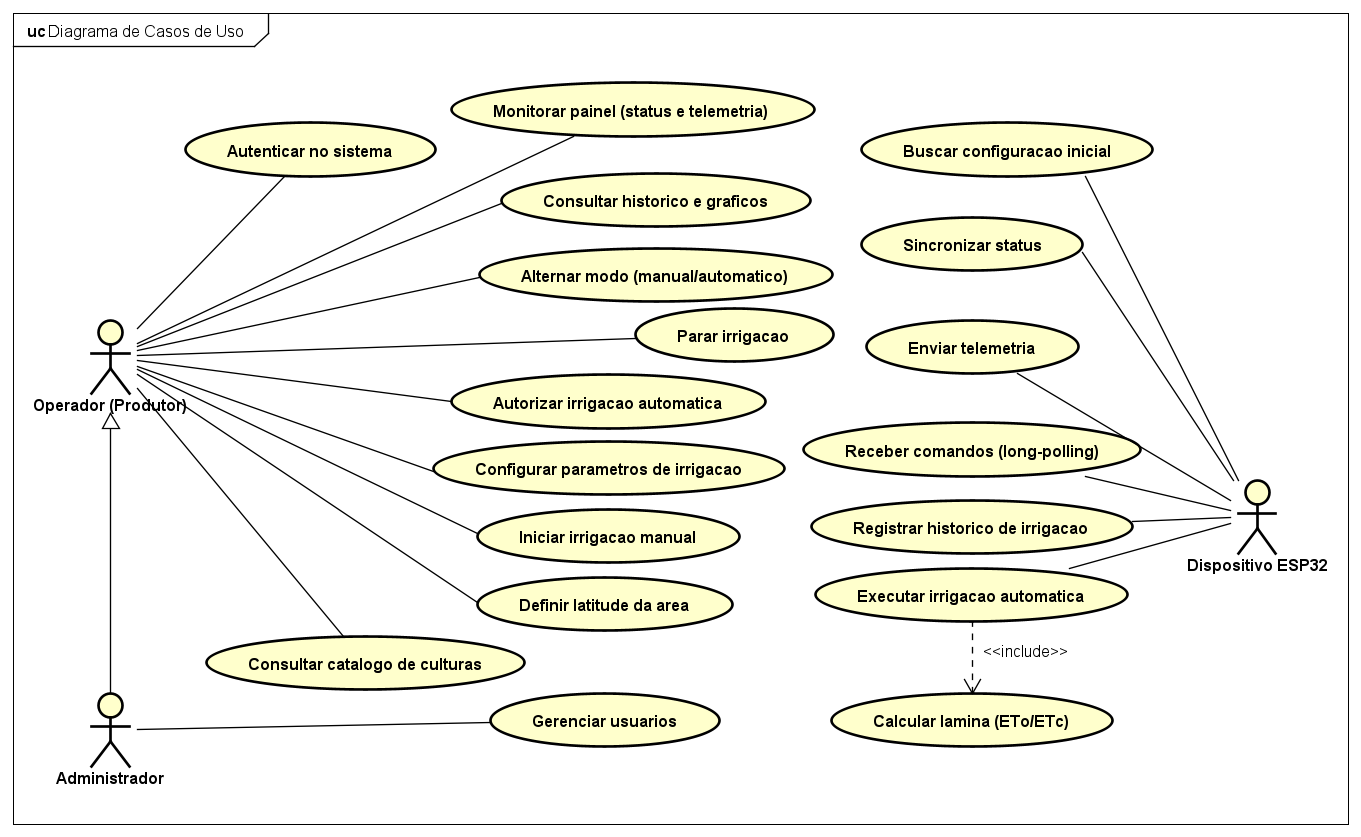
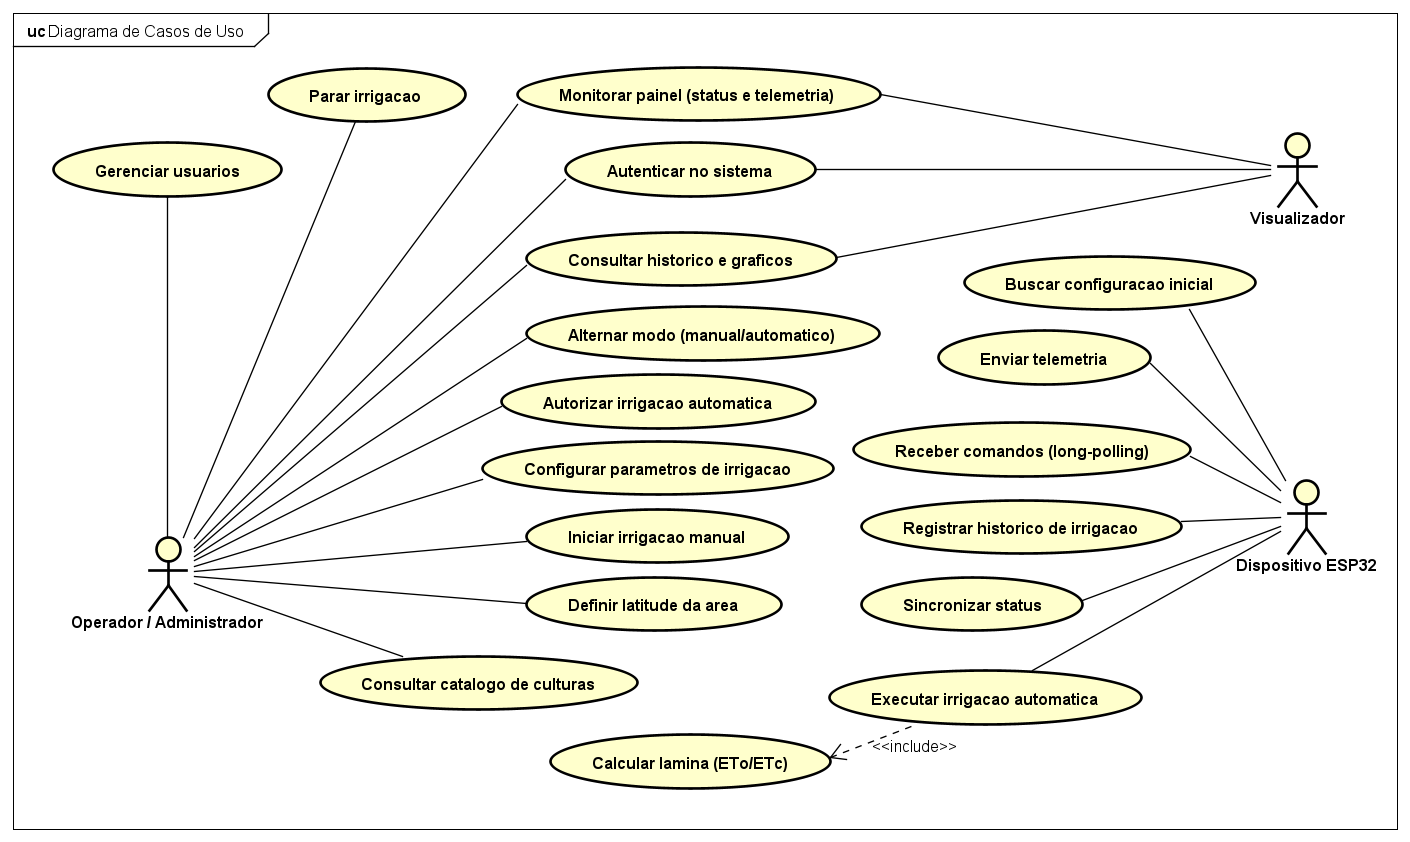
Updates from Overleaf

diff --git a/textuais/cap3.tex b/textuais/cap3.tex
@@ -4,7 +4,7 @@ Este trabalho parte de dois problemas observados nas soluções de irrigação a
  
 Quanto à natureza, trata-se de uma pesquisa aplicada, pois busca gerar conhecimento voltado à solução de um problema prático e específico. Quanto aos objetivos, a pesquisa é exploratória, uma vez que procura proporcionar maior familiaridade com o problema e verificar a viabilidade de uma alternativa para ele. A abordagem é predominantemente qualitativa, centrada na verificação do funcionamento do sistema e no atendimento aos requisitos definidos.
  
-Quanto aos procedimentos, o trabalho iniciou-se com uma pesquisa bibliográfica, que embasou a fundamentação teórica e a análise dos trabalhos relacionados, e prosseguiu com o desenvolvimento de um protótipo funcional, composto por hardware, \textit{firmware}, \textit{backend} e aplicação web. Segundo a classificação de estilos de pesquisa em computação proposta por \citeonline{wazlawick2014}, o trabalho enquadra-se na apresentação de um produto, cujo valor está em demonstrar que a solução atende a um problema relevante. Essa contribuição é complementada pela comparação qualitativa com soluções comerciais e acadêmicas apresentada no Capítulo~\ref{textuais/cap2}.
+Quanto aos procedimentos, o trabalho iniciou-se com uma pesquisa bibliográfica, que embasou a fundamentação teórica e a análise dos trabalhos relacionados, e prosseguiu com o desenvolvimento de um protótipo funcional, composto por hardware, firmware, backend e aplicação web. Segundo a classificação de estilos de pesquisa em computação proposta por \citeonline{wazlawick2014}, o trabalho enquadra-se na apresentação de um produto, cujo valor está em demonstrar que a solução atende a um problema relevante. Essa contribuição é complementada pela comparação qualitativa com soluções comerciais e acadêmicas apresentada no Capítulo~\ref{textuais/cap2}.
  
 Cabe destacar que o foco do estudo está na viabilidade técnica e econômica do sistema, e não na medição de sua eficiência agronômica. Assim, não fazem parte do escopo a quantificação da economia de água ou dos ganhos de produtividade em campo. O que se busca demonstrar é que é possível desenvolver um sistema de irrigação automatizado, modular e de baixo custo utilizando tecnologias de IoT.
 
@@ -42,9 +42,18 @@ O trabalho foi desenvolvido no Laboratório IFMaker do Instituto Federal Goiano 
   \fonte{Elaborado pelo autor}
 \end{figure}
  
-A primeira etapa foi uma revisão bibliográfica, cujo objetivo era delimitar o escopo do projeto e definir um caminho a seguir durante o desenvolvimento. Foram pesquisadas as tecnologias já empregadas na agricultura irrigada, como microcontroladores e plataformas embarcadas, sensores de solo e de clima, protocolos de comunicação para Internet das Coisas e métodos de manejo da irrigação. Também foram analisados projetos acadêmicos e soluções comerciais de irrigação inteligente, que serviram de referência para o que o sistema deveria oferecer e para as limitações que ele poderia superar, sobretudo o custo. O principal sistema embasado foi \textbf{"Low-cost open-source platform for irrigation automation"} desvevolvido por \citeauthor{campos2021lowcost}, no Instituto Federal Goiano - Campus Ceres.
+A primeira etapa foi uma revisão bibliográfica, cujo objetivo era delimitar o escopo do projeto e definir um caminho a seguir durante o desenvolvimento. Foram pesquisadas as tecnologias já empregadas na agricultura irrigada, como microcontroladores e plataformas embarcadas, sensores de solo e de clima, protocolos de comunicação para Internet das Coisas e métodos de manejo da irrigação. Também foram analisados projetos acadêmicos e soluções comerciais de irrigação inteligente, que serviram de referência para o que o sistema deveria oferecer e para as limitações que ele poderia superar, sobretudo o custo. O principal sistema embasado foi "Low-cost open-source platform for irrigation automation" desvevolvido por \citeauthor{campos2021lowcost}, no Instituto Federal Goiano - Campus Ceres.
 
-Na segunda etapa foram levantados e analisados os requisitos do sistema. Do lado do hardware, definiram-se os sensores, os atuadores e a unidade de processamento: o sensor DHT11, para temperatura e umidade relativa do ar; um sensor de umidade do solo; um módulo relé para acionar a válvula solenoide; e um display LCD para exibir as informações no local de instalação. Do lado do escopo, adotou-se o gotejamento como método de irrigação, por aplicar a água de forma localizada. Para o cálculo da lâmina, escolheu-se a abordagem Kc--ETo da FAO-56 \cite{allen1998}, com a evapotranspiração de referência estimada pelo método de Hargreaves-Samani \cite{hargreaves1985reference}, que exige apenas temperatura e latitude e, por isso, é compatível com sensores de baixo custo. Os coeficientes de cultura foram obtidos do Comunicado Técnico 254 da Embrapa \cite{albuquerque2021planilha}. Também nessa etapa foram definidos a forma de comunicação entre o dispositivo e a interface e o armazenamento dos dados em nuvem com o Firebase. Os requisitos detalhados estão no Capitulo~\ref{textuais/cap5}. 
+Na segunda etapa foram levantados e analisados os requisitos do sistema. Do lado do hardware, definiram-se os sensores, os atuadores e a unidade de processamento: 
+
+\begin{itemize} 
+    \item Sensor DHT11, para temperatura e umidade relativa do ar; 
+    \item Sensor de umidade do solo;
+    \item Módulo relé para acionar a válvula solenoide; 
+    \item Display LCD para exibir as informações no local de instalação. 
+\end{itemize}
+
+Do lado do escopo, adotou-se o gotejamento como método de irrigação, por aplicar a água de forma localizada. Para o cálculo da lâmina, escolheu-se a abordagem Kc--ETo da FAO-56 \cite{allen1998}, com a evapotranspiração de referência estimada pelo método de Hargreaves-Samani \cite{hargreaves1985reference}, que exige apenas temperatura e latitude e, por isso, é compatível com sensores de baixo custo. Os coeficientes de cultura foram obtidos do Comunicado Técnico 254 da Embrapa \cite{albuquerque2021planilha}. Também nessa etapa foram definidos a forma de comunicação entre o dispositivo e a interface e o armazenamento dos dados em nuvem com o Firebase. Os requisitos detalhados estão no Capítulo~\ref{textuais/cap4}. 
  
 A terceira etapa foi a montagem do primeiro protótipo de hardware e software. O Raspberry Pi 4 Model B \cite{raspberrypi4} atuava como unidade central, com firmware desenvolvido em Python. Como o Raspberry Pi não tem entradas analógicas, o sensor de umidade do solo foi lido por meio do conversor analógico-digital ADS1115. A comunicação entre o dispositivo e a interface usava o protocolo MQTT \cite{mqtt5}, com o broker hospedado no próprio Raspberry Pi, e a interface foi construída no Node-RED, com um painel para visualizar as leituras, informar os parâmetros de cálculo e acompanhar o histórico de irrigações nos modos manual e automático. Os testes com esse protótipo confirmaram o Firebase (Cloud Firestore) como solução de armazenamento, escolha mantida até a versão atual.
  
@@ -54,9 +63,11 @@ Na quinta etapa, o sistema completo, formado pelo dispositivo ESP32, pela API, p
  
 \section{Materiais e ferramentas}
  
-A Tabela~\ref{tab:ferramentas} reúne os materiais e as ferramentas usados na versão atual do sistema, com a versão de cada um e a finalidade no projeto. Eles estão organizados em seis categorias, que acompanham as partes do sistema. A categoria \textit{hardware} reúne os componentes físicos do protótipo, como o ESP32, os sensores e os atuadores, que aparecem de forma resumida e são detalhados posteriormente Capitulo~\ref{textuais/cap4}. A categoria \textit{firmware} contém o ambiente e as bibliotecas usados para programar o ESP32. As categorias \textit{backend} e \textit{frontend} agrupam, respectivamente, as tecnologias da API, responsável por receber os dados do dispositivo e os comandos do painel, e as da aplicação web, por meio da qual o usuário acompanha e controla a irrigação. A categoria de nuvem e banco de dados reúne os serviços do Firebase, usados para autenticação e armazenamento. Por fim, a categoria de desenvolvimento e testes reúne as ferramentas de apoio, como o controle de versão e as bibliotecas de testes automatizados.
+A Tabela~\ref{tab:ferramentas} reúne os materiais e as ferramentas usados na versão atual do sistema, com a versão de cada um e a finalidade no projeto. Eles estão organizados em seis divisões. A primeira, hardware, apresenta de forma resumida os componentes eletrônicos do dispositivo de campo, que são detalhados no Capítulo~\ref{textuais/cap5}. A segunda reúne as linguagens de programação, uma para cada parte do sistema: C++ no firmware do ESP32, Java na API e TypeScript no painel web. A terceira lista os frameworks e as bibliotecas construídos sobre essas linguagens, como o Spring Boot, base da API, e o Angular, base do painel, além das bibliotecas de estilização e de gráficos da interface.
 
-As ferramentas usadas apenas no primeiro protótipo (Python, o \textit{broker} MQTT Mosquitto, o Node-RED e as bibliotecas de leitura dos sensores no Raspberry Pi) não constam na tabela, porque foram descontinuadas na migração para o ESP32.
+A quarta divisão agrupa os serviços em nuvem do Firebase, responsáveis pela autenticação dos usuários e pelo armazenamento dos dados, junto com os kits de desenvolvimento que permitem à API e ao painel acessá-los. A quinta reúne as ferramentas de apoio ao desenvolvimento, que não fazem parte do sistema em execução, mas foram usadas para escrevê-lo, versioná-lo, compilá-lo, documentá-lo e empacotá-lo. Por fim, a sexta divisão contém as bibliotecas usadas nos testes automatizados da API. Os itens sem versão indicada correspondem a serviços em nuvem, cuja versão é mantida pelo fornecedor, ou a ferramentas cuja versão não interfere no funcionamento do sistema.
+
+As ferramentas usadas apenas no primeiro protótipo (Python, o broker MQTT Mosquitto, o Node-RED e as bibliotecas de leitura dos sensores no Raspberry Pi) não constam na tabela, porque foram descontinuadas na migração para o ESP32.
  
 \begin{table}[htbp]
   \centering
@@ -107,7 +118,7 @@ As ferramentas usadas apenas no primeiro protótipo (Python, o \textit{broker} M
 
 \section{Procedimentos de avaliação}
 
-A avaliação do sistema foi planejada em três níveis, do componente isolado ao ecossistema completo, todos executados em ambiente controlado. Os resultados são apresentados no Capítulo~\ref{textuais/cap7}.
+A avaliação do sistema foi planejada em três níveis, do componente isolado ao ecossistema completo, todos executados em ambiente controlado. Os resultados são apresentados no Capítulo~\ref{textuais/cap6}.
  
 No primeiro nível, os testes unitários verificam o código de cada aplicação separadamente. No backend, as classes de serviço e os controladores são testados com JUnit, e o Mockito substitui as dependências externas, como o Firestore, para que cada teste avalie apenas a lógica da classe. O critério de aceitação é que todos os testes passem.
  

diff --git a/textuais/cap4.tex b/textuais/cap4.tex
@@ -1,14 +1,12 @@
-% #####################################################################
 \chapter{Levantamento e análise de requisitos}
 \label{textuais/cap4}
 
 Este capítulo define o que o sistema deve fazer e sob quais condições. A partir da descrição do problema e da delimitação do escopo, são apresentados os perfis de usuário, os requisitos funcionais e não funcionais, as regras de negócio que orientam as decisões do sistema e, por fim, os diagramas que modelam seu comportamento.
 
-% =====================================================================
 \section{Descrição do problema e escopo}
 \label{sec:problema-escopo}
 
-A irrigação feita sem controle, por tempo fixo ou pela percepção do produtor, tende a aplicar mais ou menos água do que a cultura necessita, o que gera desperdício ou estresse hídrico. As soluções comerciais que automatizam essa decisão, como as analisadas no Capítulo~\ref{textuais/cap2}, oferecem modelos de decisão elaborados, mas são proprietárias, têm custo elevado e, em geral, são voltadas a escalas diferentes da de pequenas áreas de cultivo.
+A irrigação feita sem controle, por tempo fixo ou pela percepção do produtor, tende a aplicar mais ou menos água do que a cultura necessita, o que gera desperdício ou estresse hídrico. As soluções comerciais que automatizam essa decisão, como as analisadas no Capítulo~\ref{textuais/cap2}, oferecem modelos de decisão elaborados, mas são proprietárias, têm custo elevado e, em geral, são voltadas a escalas diferentes daquelas observadas em pequenas áreas de cultivo.
 
 Para enfrentar esse problema, o sistema proposto monitora a umidade do solo, a temperatura e a umidade do ar, decide quando irrigar com base na umidade do solo e calcula quanto irrigar pelo método FAO-56, escrito por \citeonline{allen1998}, com a ET$_0$ estimada pelo método de Hargreaves-Samani. O acompanhamento e o controle são feitos a distância, por meio de um painel \textit{web}.
 
@@ -20,15 +18,22 @@ O escopo do trabalho compreende:
   \item Um painel \textit{web} para monitoramento, configuração e acionamento da irrigação, com controle de acesso por perfil de usuário.
 \end{itemize}
 
-Ficam fora do escopo: o controle simultâneo de vários dispositivos, embora o modelo de dados já identifique cada um deles; a fertirrigação; o uso de previsão do tempo; o desenvolvimento de aplicativo móvel nativo; a medição de vento e radiação solar, necessária ao método de Penman-Monteith; e a avaliação da economia de água e da produtividade em campo, conforme delimitado na caracterização da pesquisa.
+Ficam fora do escopo: 
+\begin{itemize}
+    \item O controle simultâneo de vários dispositivos, embora o modelo de dados já identifique cada um deles; 
+    \item A fertirrigação; o uso de previsão do tempo;
+    \item O desenvolvimento de aplicativo móvel nativo; 
+    \item A medição de vento e radiação solar, necessária ao método de Penman-Monteith; 
+    \item E a avaliação da economia de água e da produtividade em campo,
+\end{itemize}
+Conforme delimitado na caracterização da pesquisa.
 
-% =====================================================================
 \section{Perfis de usuário}
 \label{sec:perfis}
 
 O sistema possui dois perfis de usuário humano e um ator de sistema. O perfil é definido no cadastro do usuário e verificado pela API a cada requisição, de modo que as restrições valem mesmo que alguém tente acessar as funções diretamente, sem passar pelo painel.
 
-O \textbf{Administrador/Operador} tem acesso completo. Além de acompanhar o sistema, ele altera o modo de operação, autoriza ou bloqueia a irrigação automática, inicia e interrompe a irrigação manual, configura os parâmetros agronômicos e a latitude, cadastra culturas e cadastra novos usuários.
+O Administrador/Operador tem acesso completo. Além de acompanhar o sistema, ele altera o modo de operação, autoriza ou bloqueia a irrigação automática, inicia e interrompe a irrigação manual, configura os parâmetros agronômicos e a latitude, cadastra culturas e cadastra novos usuários.
 
 O \textbf{Visualizador} tem acesso apenas de leitura. Ele acompanha o estado do dispositivo, as leituras dos sensores, os gráficos e o histórico de irrigações, mas não altera configurações nem envia comandos.
 
@@ -60,7 +65,6 @@ O \textbf{Dispositivo ESP32} é um ator de sistema, não humano. Ele envia as le
   \fonte{Elaborado pelo autor}
 \end{table}
 
-% =====================================================================
 \section{Requisitos funcionais}
 \label{sec:rf}
 
@@ -168,6 +172,7 @@ Os \sigla{RNF}{requisitos não funcionais} definem como o sistema deve operar, e
   \endhead
   \hline
   \multicolumn{3}{r}{\textit{Continua na próxima página}} \\
+  
   \endfoot
   \hline
   \endlastfoot
@@ -188,6 +193,7 @@ Os \sigla{RNF}{requisitos não funcionais} definem como o sistema deve operar, e
   RNF15 & Compatibilidade & A comunicação entre as partes deve seguir o estilo REST, com dados em JSON, e os registros de data e hora devem usar o fuso de Brasília (UTC$-$3), com relógio sincronizado pelo \sigla{NTP}{\textit{Network Time Protocol}}. \\
   RNF16 & Tecnologia & Os dados devem ser armazenados no Cloud Firestore, e a autenticação de usuários deve ser feita pelo Firebase Authentication. \\
   RNF17 & Escalabilidade & A identificação de cada dispositivo e o modelo de dados devem permitir a futura inclusão de vários dispositivos. \\
+  
 \end{longtable}
 }
 \vspace{-0.8\baselineskip}

diff --git a/textuais/introducao.tex b/textuais/introducao.tex
@@ -55,7 +55,6 @@ Nos dias atuais, o uso eficiente da água é um fator determinante para a susten
 % --- Parágrafo 2: importância da solução tecnológica + estudos ----------
 Nesse contexto, os sistemas de irrigação inteligente, baseados na \sigla{IoT}{Internet of Things ou Internet das Coisas}, tornam-se ferramentas essenciais para o monitoramento e a automação do manejo hídrico. Esses sistemas permitem acompanhar continuamente variáveis do solo e do clima e acionar a irrigação conforme a demanda da cultura, reduzindo também a necessidade de intervenção manual \cite{garcia2020iot}. Estudos recentes demonstram seus benefícios: no cultivo de alface irrigada por gotejamento, um sistema com sensores de baixo custo consumiu 28,8\% menos água e alcançou produtividade da água 52,5\% superior à do manejo convencional \cite{abdelmoneim2025comparative}, e, em campo, estratégias apoiadas por sensores IoT reduziram em 30\% o volume aplicado sem prejuízo à produção \cite{dong2024implementation}.
  
-% --- Parágrafo 3: soluções comerciais existentes -----------------------
 Alguns sistemas comerciais de irrigação inteligente amplamente utilizados no mercado incluem o Hydrawise, o NetBeat e o Valley Scheduling. O Hydrawise, da Hunter Industries \cite{hunter2026hydrawise}, é voltado para jardins e paisagismo e ajusta a programação da irrigação com base na previsão de temperatura, chuva, vento e umidade, disponibilizando parte de suas funcionalidades avançadas mediante planos de assinatura do Software. O NetBeat, da Netafim \cite{netafim2026netbeat}, por sua vez, destaca-se no segmento agrícola pela robustez: com distribuição no Brasil, integra o monitoramento da lavoura, o apoio à decisão por meio de modelos de cultura proprietários e o controle da irrigação e da fertirrigação, técnica que consiste em aplicar fertilizantes dissolvidos na própria água de irrigação. Já o Valley Scheduling \cite{valley2026scheduling} é uma plataforma voltada para sistemas de irrigação por pivô central, que estima a necessidade diária de água por meio de balanço hídrico, sensores de solo e imagens de satélite, contando ainda com o acompanhamento de técnicos especializados. Embora todas essas soluções ofereçam interfaces gráficas para o gerenciamento da irrigação e funcionalidades parecidas com o sistema apresentado nessa pesquisa, tratam-se de ecossistemas fechados: além do custo elevado, oferecem pouca flexibilidade quanto aos sensores e módulos que podem ser integrados, limitação que um sistema desenvolvido com tecnologias de IoT permite contornar.
  
 % --- Parágrafo 4: diferencial da proposta ------------------------------
@@ -69,8 +68,8 @@ O desenvolvimento desse sistema se justifica pela necessidade crescente de torna
  
 % --- Parágrafo 7: objetivo do trabalho --------------------------------
 Diante desse cenário, o objetivo deste trabalho é desenvolver um sistema de irrigação inteligente de baixo custo, baseado em Internet das Coisas, capaz de coletar dados ambientais por meio de sensores, estimar a necessidade hídrica da cultura e automatizar o fornecimento de água, disponibilizando uma interface web para o monitoramento e o gerenciamento da irrigação. O sistema foi desenvolvido e validado em ambiente controlado, com um único setor de irrigação por gotejamento e tendo a alface (\emph{Lactuca sativa}) como cultura de referência. Com isso, busca-se oferecer ao pequeno produtor uma forma de irrigar apenas o volume de água necessário, de maneira estável e rastreável.
- 
-% --- Parágrafo 8: capítulos seguintes ---------------------------------
+
+
 Nos capítulos seguintes, serão apresentados os fundamentos teóricos relacionados à irrigação, à evapotranspiração e à Internet das Coisas, o levantamento e a análise dos requisitos do sistema, a implementação do \emph{hardware}, da API e da interface WEB, e os resultados obtidos nos testes realizados.
 
 A água é um recurso essencial para a vida no planeta, e a agricultura é o setor que mais a demanda, respondendo por aproximadamente 70\% do volume de água doce retirado, enquanto a indústria e o uso doméstico correspondem a cerca de 22\% e 8\%, respectivamente \cite{ingrao2023}. Diante do crescimento populacional e das mudanças climáticas, a expansão da irrigação tem pressionado os recursos hídricos: mais da metade (52\%) da área irrigada acrescentada no mundo entre 2000 e 2015 ocorreu em regiões que já enfrentavam estresse hídrico \cite{mehta2024}. Nesse contexto, \citeonline{ingrao2023} apontam o aprimoramento das tecnologias e das práticas de irrigação como uma das principais estratégias para reduzir o desperdício de água no campo e tornar a produção de alimentos mais eficiente.

diff --git a/textuais/cap2.tex b/textuais/cap2.tex
@@ -11,8 +11,7 @@ técnicas mais recentes.
 Cada solução é descrita em uma seção própria. As Seções~\ref{sec:hydrawise},
 \ref{sec:netbeat} e~\ref{sec:valley} apresentam três soluções comerciais, e a
 Seção~\ref{sec:campos} apresenta uma plataforma acadêmica de baixo custo. Por
-fim, a Seção~\ref{sec:comparativo-trabalhos} compara essas soluções com o
-sistema proposto.
+fim, a Seção~\ref{sec:comparativo-trabalhos} compara essas soluções abordadas.
 
 % =====================================================================
 \section{Hydrawise}
@@ -113,7 +112,7 @@ resultados medidos em campo. Cada critério é explicado a seguir.
 
 \begin{table}[htbp]
   \centering
-  \caption{Comparativo entre os trabalhos relacionados e o sistema proposto}
+  \caption{Comparativo entre os trabalhos relacionados}
   \label{tab:comparativo-trabalhos}
   \scriptsize
   \renewcommand{\arraystretch}{1.25}
@@ -187,10 +186,9 @@ ela opera. O Hydrawise atende residências e profissionais de paisagismo, o
 NetBeat abrange desde grandes áreas até pequenos produtores, e o Valley
 Scheduling é voltado a produtores rurais que irrigam por pivô, sistema linear ou
 gotejamento. A plataforma de \citeonline{campos2021} foi concebida para pesquisa
-em casa de vegetação, enquanto o sistema proposto se destina a pequenas áreas
-irrigadas por gotejamento.
+em casa de vegetação e estufas.
 
-A \textbf{base para decidir a irrigação} corresponde ao critério usado para
+A base para decidir a irrigação corresponde ao critério usado para
 definir quando e quanto irrigar. O Hydrawise ajusta os programas pela previsão
 do tempo, o NetBeat recomenda a irrigação por modelos dinâmicos de cultura e o
 Valley Scheduling gera recomendações por algoritmo ou por dados medidos em

diff --git a/monografia.tex b/monografia.tex
@@ -157,8 +157,7 @@
 \include{textuais/cap5}                % 
 \include{textuais/cap6}                % 
 \include{textuais/cap7}                % 
-\include{textuais/conclusao}           %conclusão
-\include{textuais/trabalhosFuturos}
+\include{textuais/conclusao}           % conclusão
 %---------------------------------------------------------------------
 % BIBLIOGRAFIA
 %		Edite o arquivo bibliografia, apenas acrescentando 
